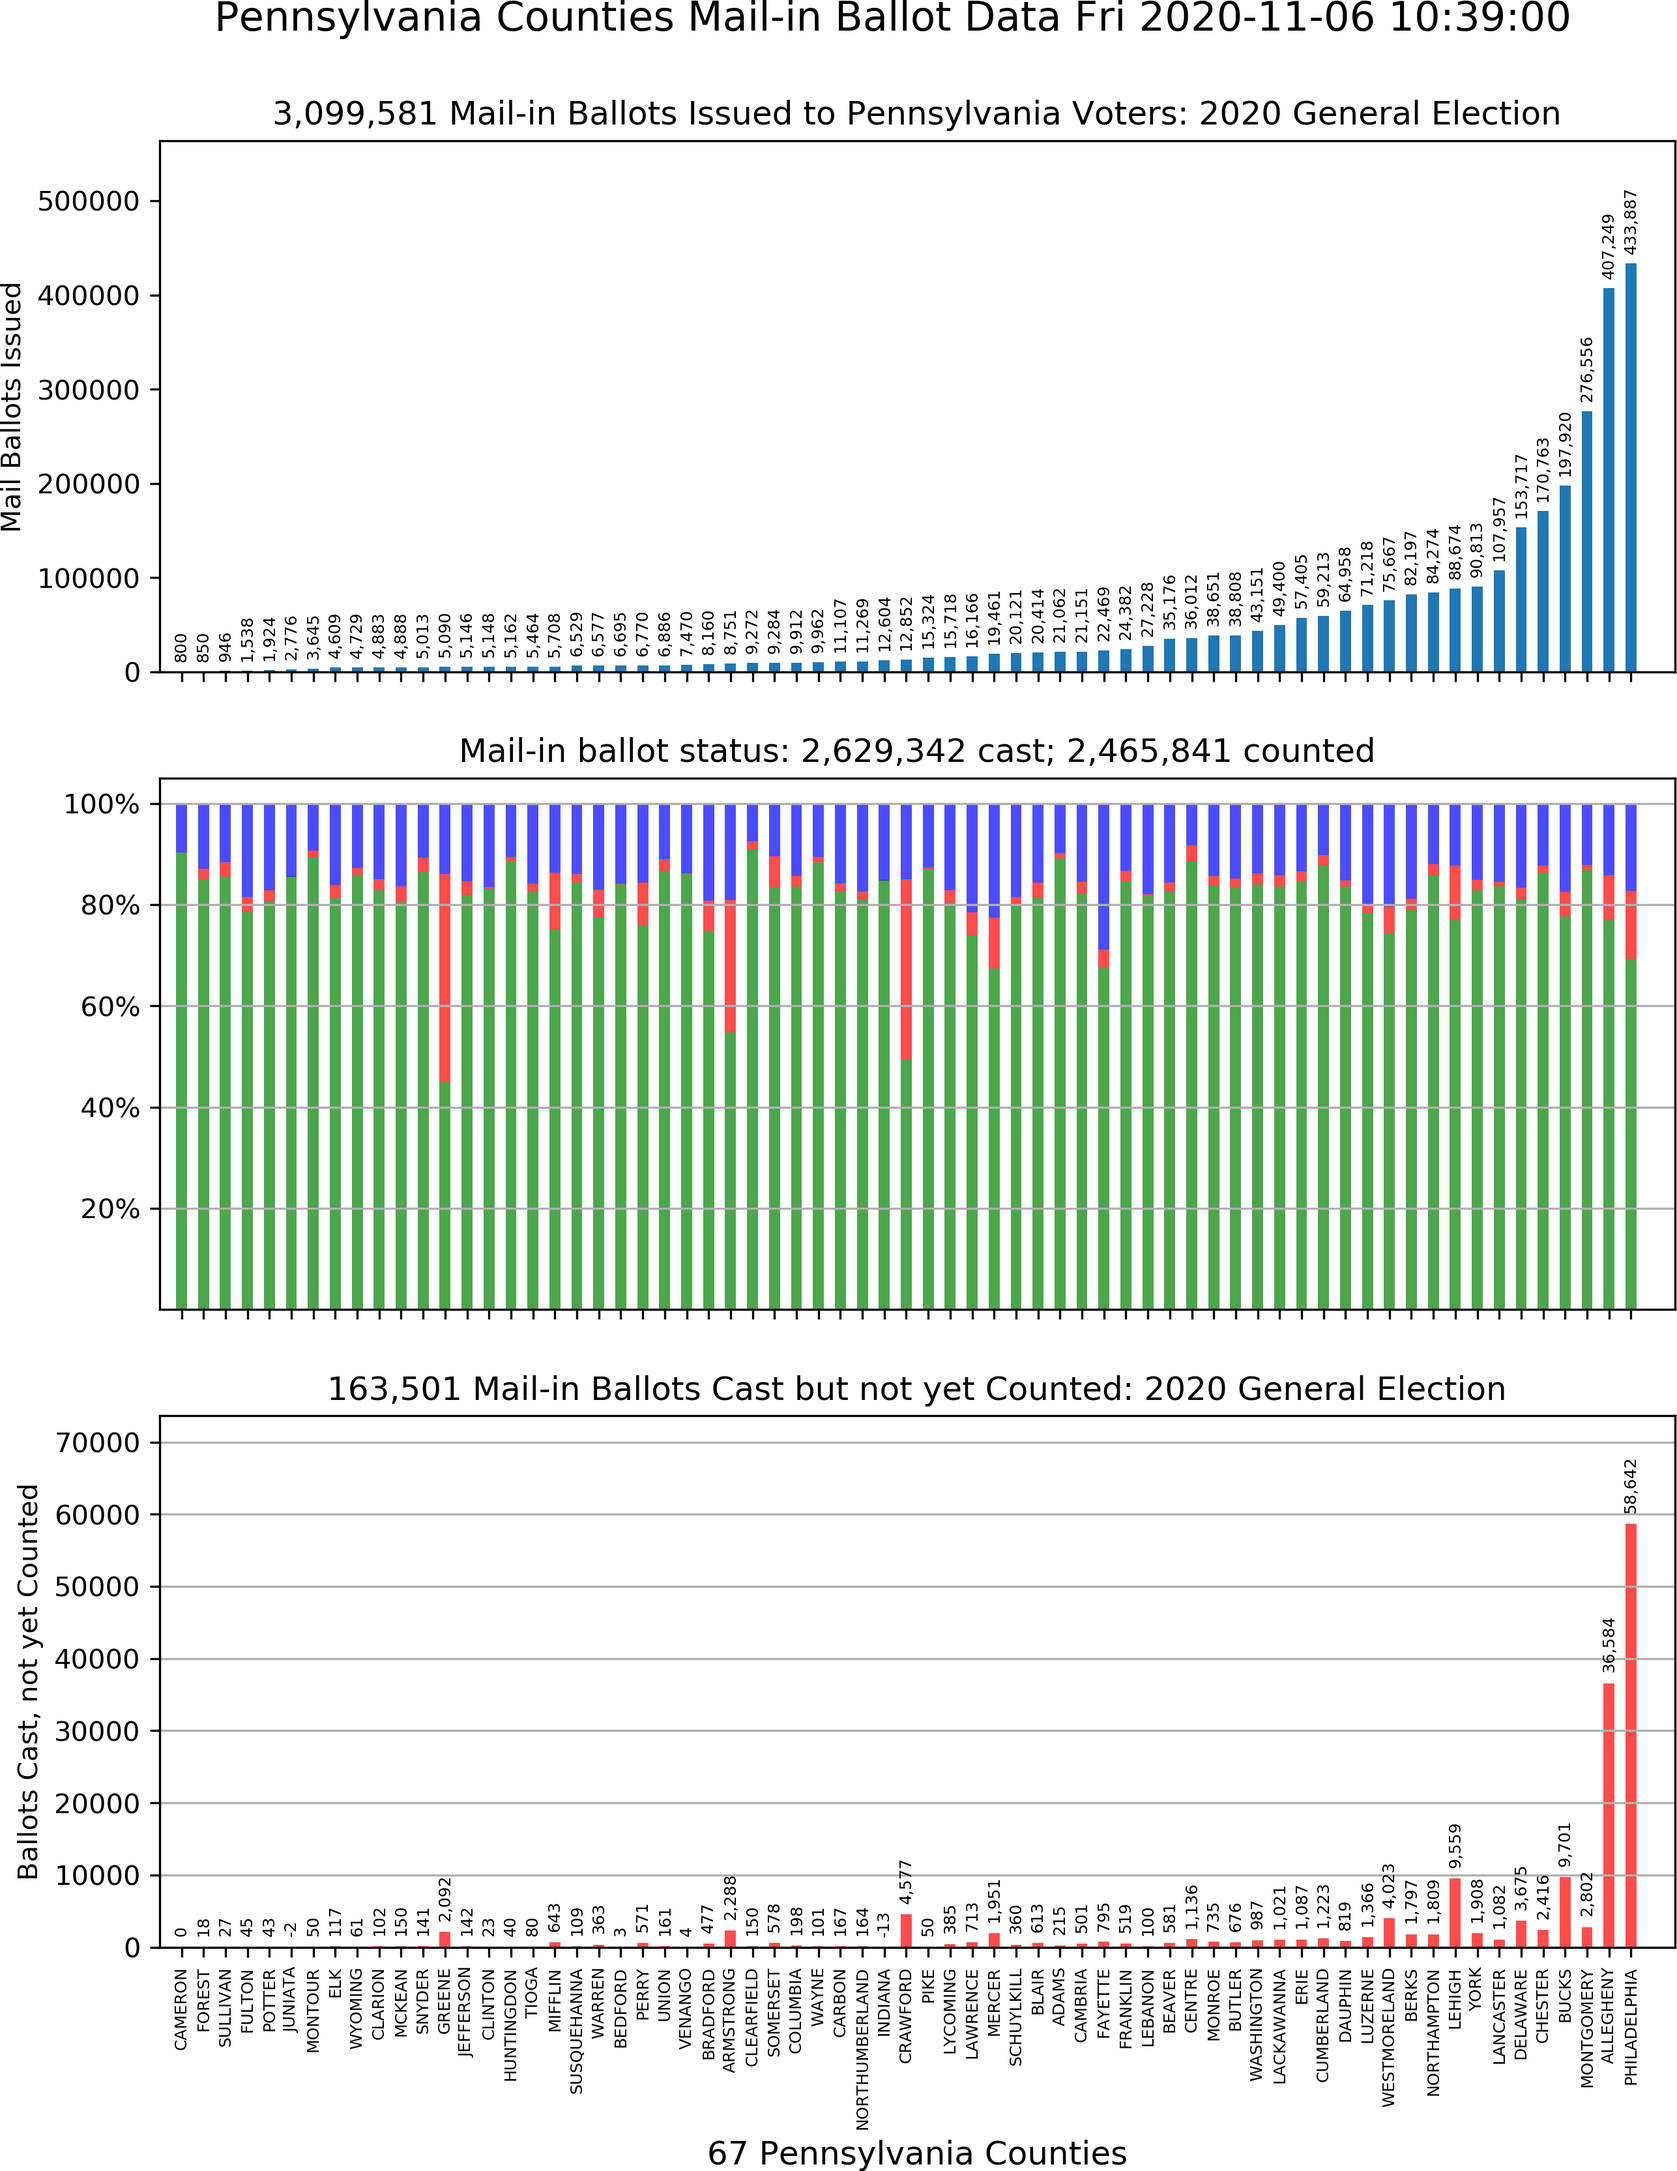
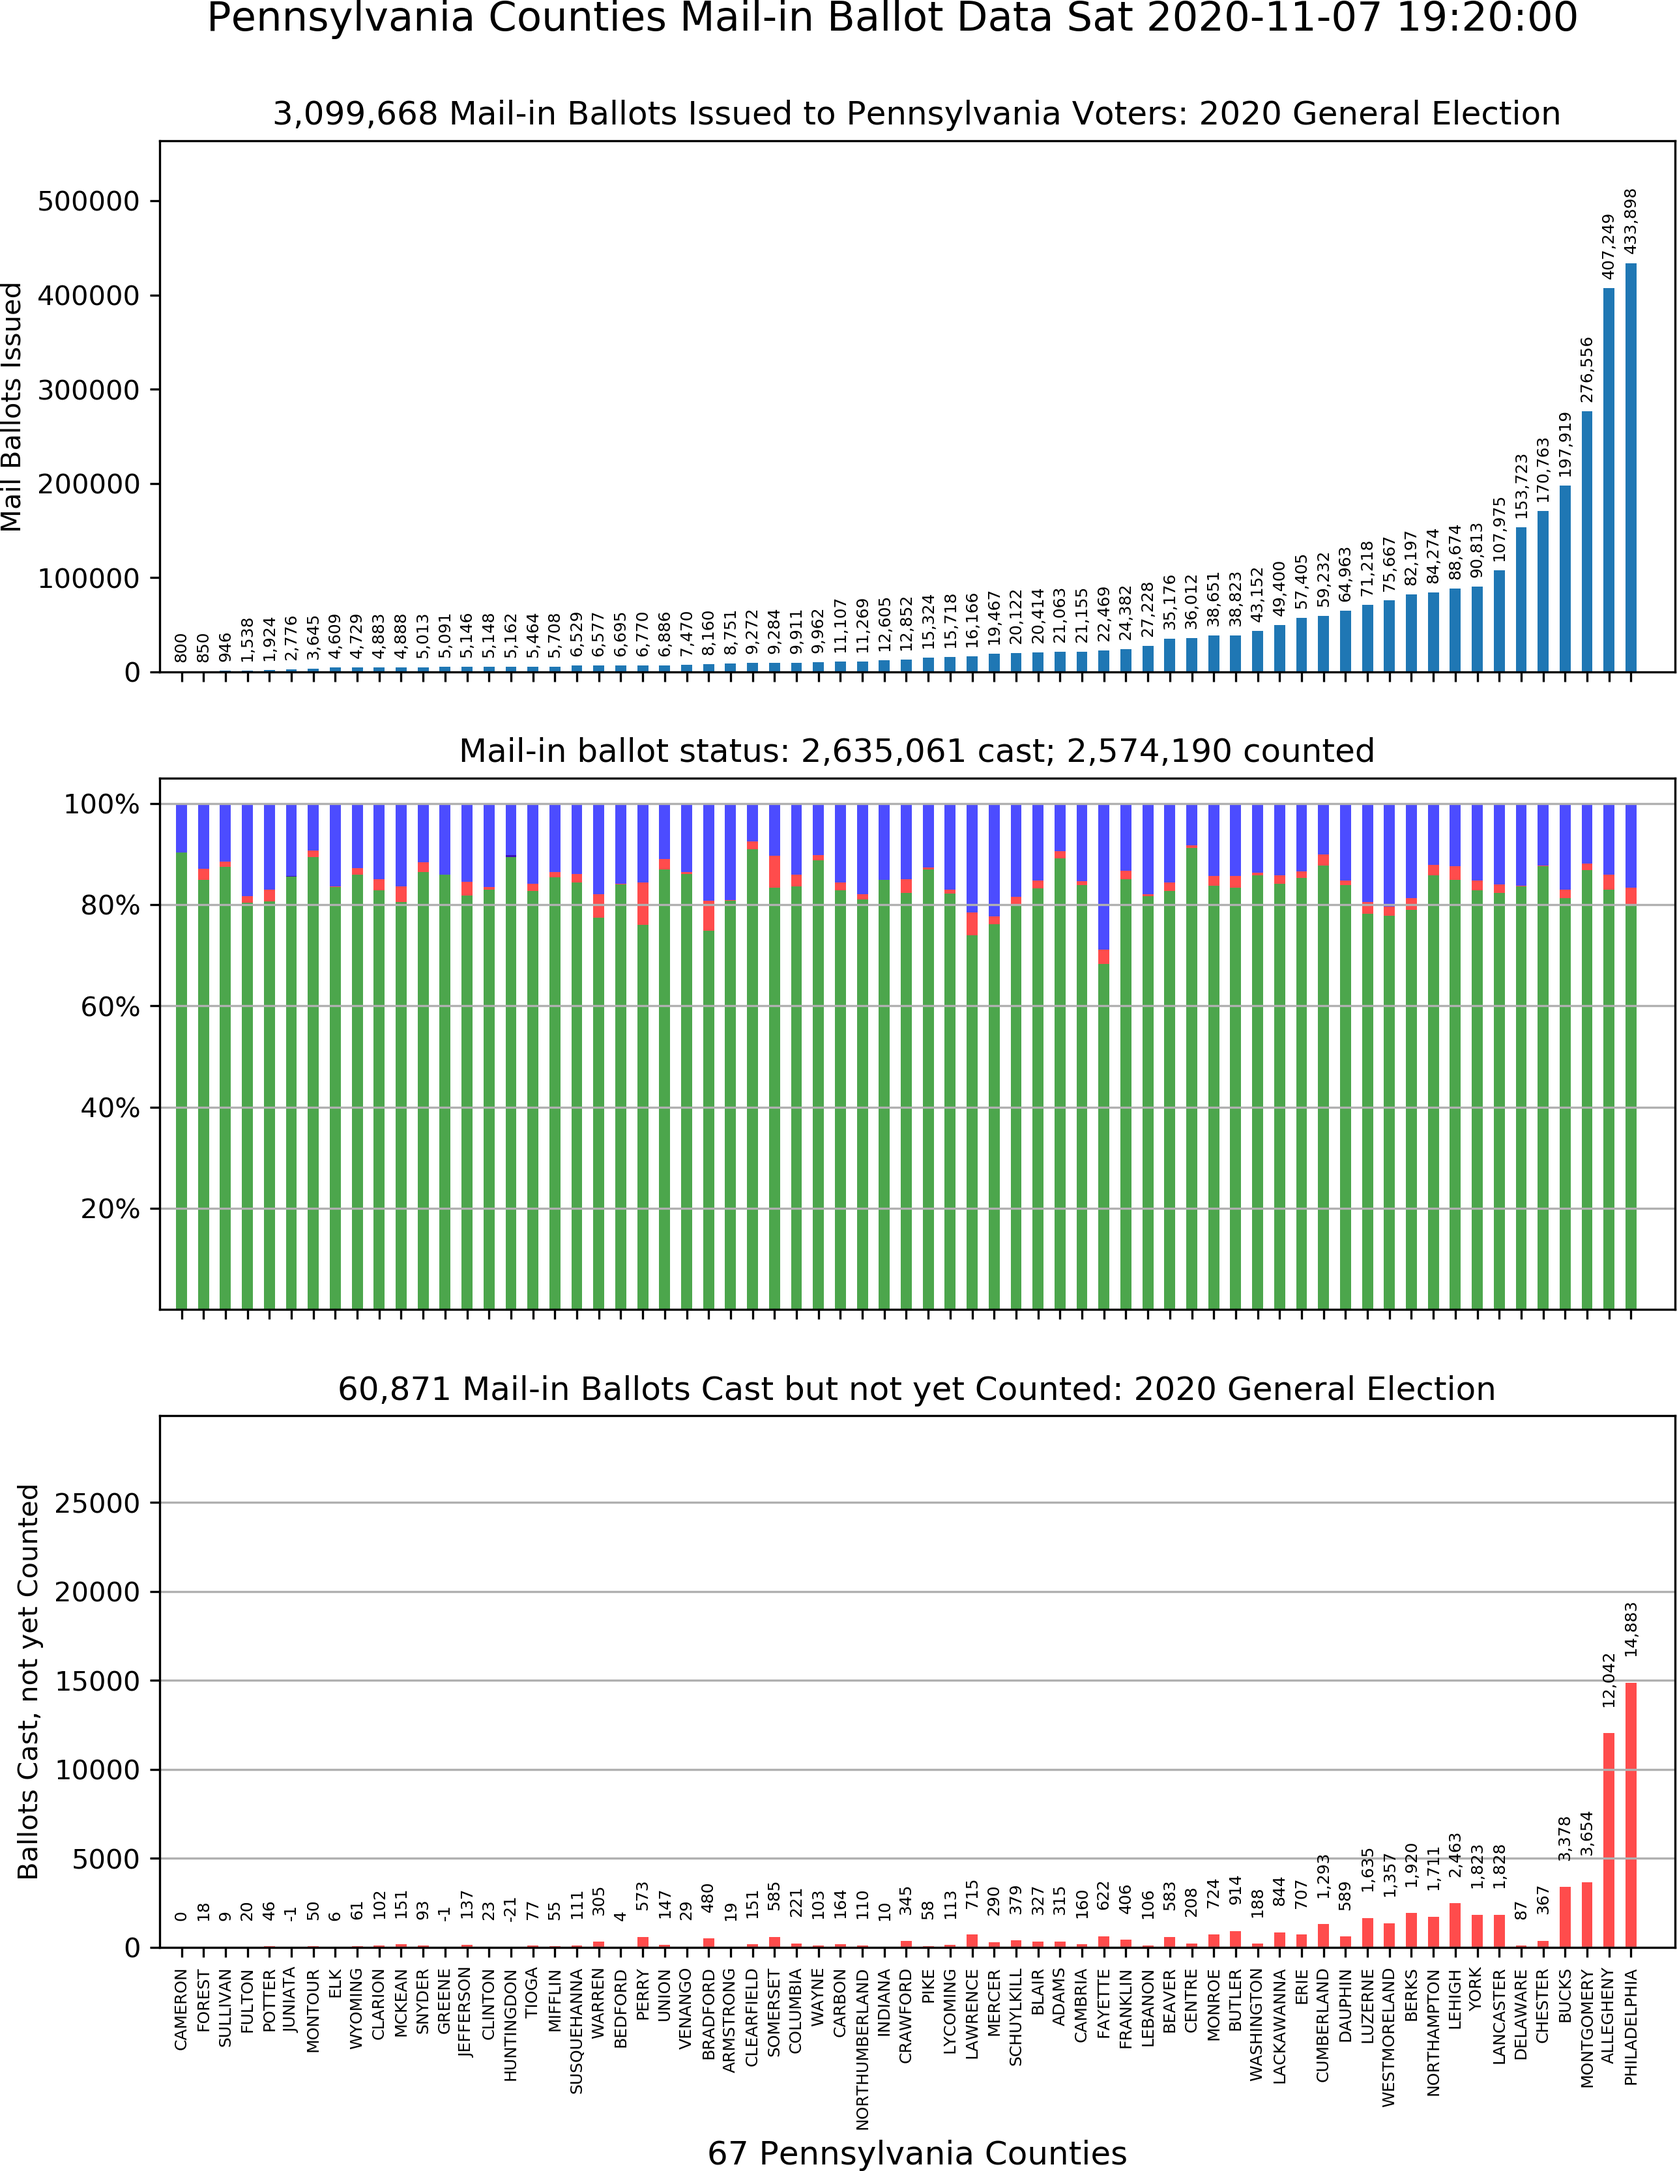
UPdate with Sat data

diff --git a/src/tests/test_mail_ballot.py b/src/tests/test_mail_ballot.py
@@ -20,7 +20,7 @@ def main():
         assert abs(perc_counted - ntd.perc_counted) < .001, '{} {}'.format(perc_counted, ntd)
         assert ntd.Ballots_Cast - ntd.Ballots_Counted == ntd.Ballots_Remaining
     plt = MailBallotPlot(obj)
-    #plt.plt_counties(repofn('doc/images/mail_ballot_all.png'))
+    plt.plt_counties(repofn('doc/images/mail_ballot_all.png'))
     plt.plt_blue_v_red(repofn('doc/images/mail_ballot_red_blue.png'))
 
 

diff --git a/README.md b/README.md
@@ -1,7 +1,7 @@
 # PA Government Open Data
 Work with the [opendata](https://data.pa.gov/) from the Commonwealth of Pennsylvania
 
-* Mail in Ballots in Pennsylvania
+* Mail in Ballots in Pennsylvania for the Nov 2020 General Election
   * [Summary for Mail-in Ballots](#data_pa_gov#summary-for-mail-in-ballots)
   * [PA Counties for Mail-in Ballots](#data_pa_gov#county-data-for-mail-in-ballots)
 
